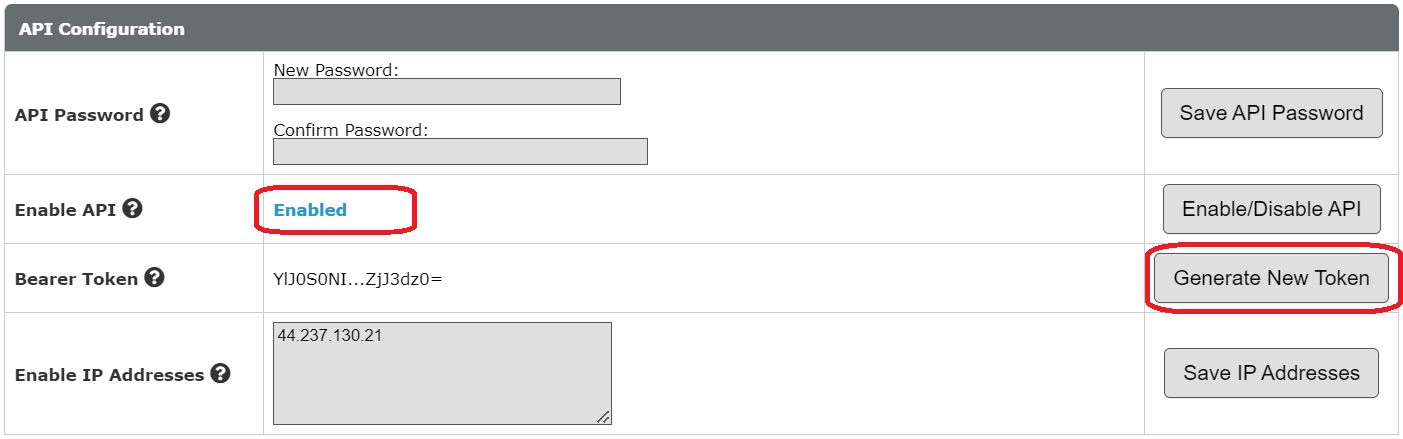
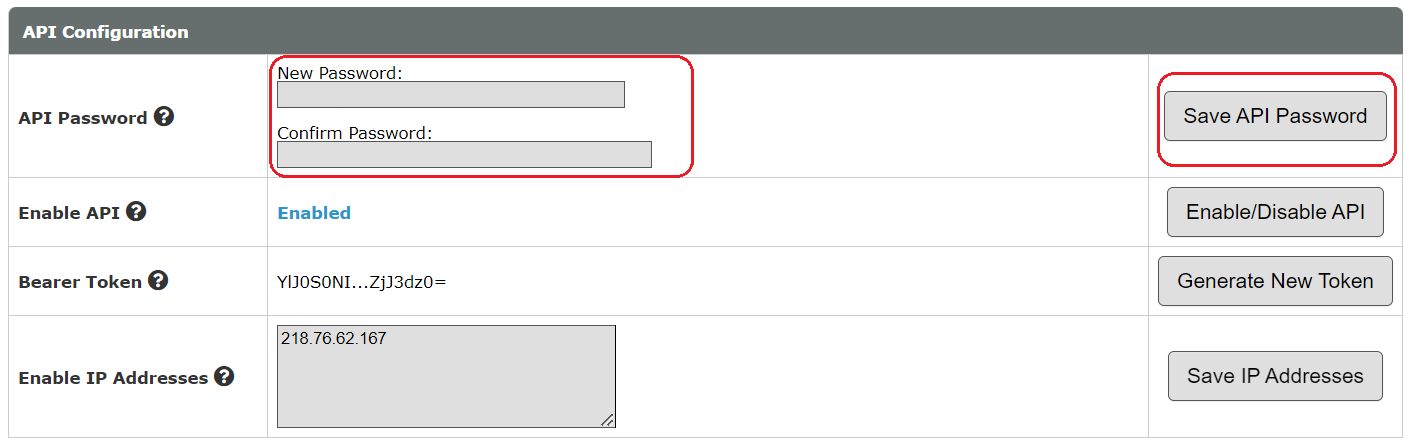
GITBOOK-1967: No subject

diff --git a/configuring-sip-trunks/voip.ms-sip-trunk/voip.ms-sms-integration.md b/configuring-sip-trunks/voip.ms-sip-trunk/voip.ms-sms-integration.md
@@ -8,14 +8,14 @@ The VoIP.ms SMS service has some limitations. Please refer to this link for more
 
 If you do not already have a **Bearer Token** generated that you have copied somewhere, please follow the below steps to generate it.
 
-1. Go to your VoIP.ms client portal, navigate to Main Menu > SOAP and REST/JSON API
+1. Go to your VoIP.ms client portal, navigate to **Main Menu > SOAP and REST/JSON API**
 2. Click on Enable the API if it is not already made
-3. Where Bearer Token click on **Generate New Token** and copy it to the clipboard
+3. Enter a password for the A**PI Password**, then press **Save API Password**, and note it
 
 <figure><img src="../../.gitbook/assets/voip.ms-flig12.png" alt=""><figcaption></figcaption></figure>
 
 {% hint style="danger" %}
-When you generate a Bearer Token, be sure to copy and store it in a secure place, as it won't be visible again after generation. It will only be available to be copied once it being generated. If you lost your Bearer Token, you need to regenerate a new one.
+When you set up the API Password, be sure to copy and store it in a secure place, as it won't be visible again after generation. It will only be available to be copied once it is set up. If you lost your API Password, you need to set up a new one.
 {% endhint %}
 
 ## Configure SMS with VoIP.ms Trunk in PortSIP PBX
@@ -39,24 +39,25 @@ Please follow the below steps:
 
 1. In PortSIP PBX Web portal, navigate to the left menu, select **SMS/MMS**, and click the **Add** button.&#x20;
 2. Choose your configured VoIP.ms Trunk:
-   * **API Key**: Paste your copied VoIP.ms API key here
+   * **Username: E**nter your VoIP.ms account password
+   * **Password**: Paste your copied VoIP.ms API Password here
 
-<figure><img src="../../.gitbook/assets/wafix-fig32.png" alt=""><figcaption></figcaption></figure>
+<figure><img src="../../.gitbook/assets/voip.ms-flig14.png" alt=""><figcaption></figcaption></figure>
 
 3. Click **OK** to be brought to the SMS/MMS list page. You can select that SMS configuration and click the **Copy Webhook** button to copy it. Or Double-click the SMS configuration you created and copy the Webhook URL.
-4. Go to your VoIP.ms client portal and navigate to DID Number > Manage DIDs
+4. Go to your VoIP.ms client portal and navigate to **DID Number > Manage DIDs**
 5. Click the yellow pencil Edit button of your DID you wish to use for SMS
 6. &#x20;Scroll down to the SMS section until you see the Message Service (SMS/MMS) section.
 7. Enable the SMS/MMS service.
-8. In the SMS/MMS Webhook URL field, paste the Webhook URL you copied from PortSIP PBX
-9. Select if you wish to send and receive SMS/MMS messages with the format NANPA or E164.
-   * E164: To send a SMS or MMS with this format, you will need to include `+` sign and the country code for every messages
-   * NANPA: To send a SMS or MMS with this format, you only need to enter the 10-digit number without the country code.
+8. In the **SMS/MMS Webhook URL** field, paste the Webhook URL you copied from PortSIP PBX
+9. Select if you wish to send and receive SMS/MMS messages in the NANPA or E164 format.
+   * E164: To send an SMS or MMS with this format, you will need to include `+` sign and the country code for every message
+   * NANPA: To send an SMS or MMS with this format, you only need to enter the 10-digit number without the country code.
 10. Press the button **Click here to apply changes** then you get it done.
 
 <figure><img src="../../.gitbook/assets/voip.ms-flig13.png" alt=""><figcaption></figcaption></figure>
 
 ## Verify Configuration
 
-Now you can [create the outbound and inbound rules](configuring-outbound-and-inbound-calls.md) in PortSIP PBX for sending and receiving SMS/MMS using the VoIP.ms Trunk, just like you create the rules for making and receiving calls.
+Now you can [create the outbound and inbound rules](configuring-outbound-and-inbound-calls.md) in PortSIP PBX for sending and receiving SMS/MMS using VoIP.ms Trunk, just like you create the rules for making and receiving calls.
 
